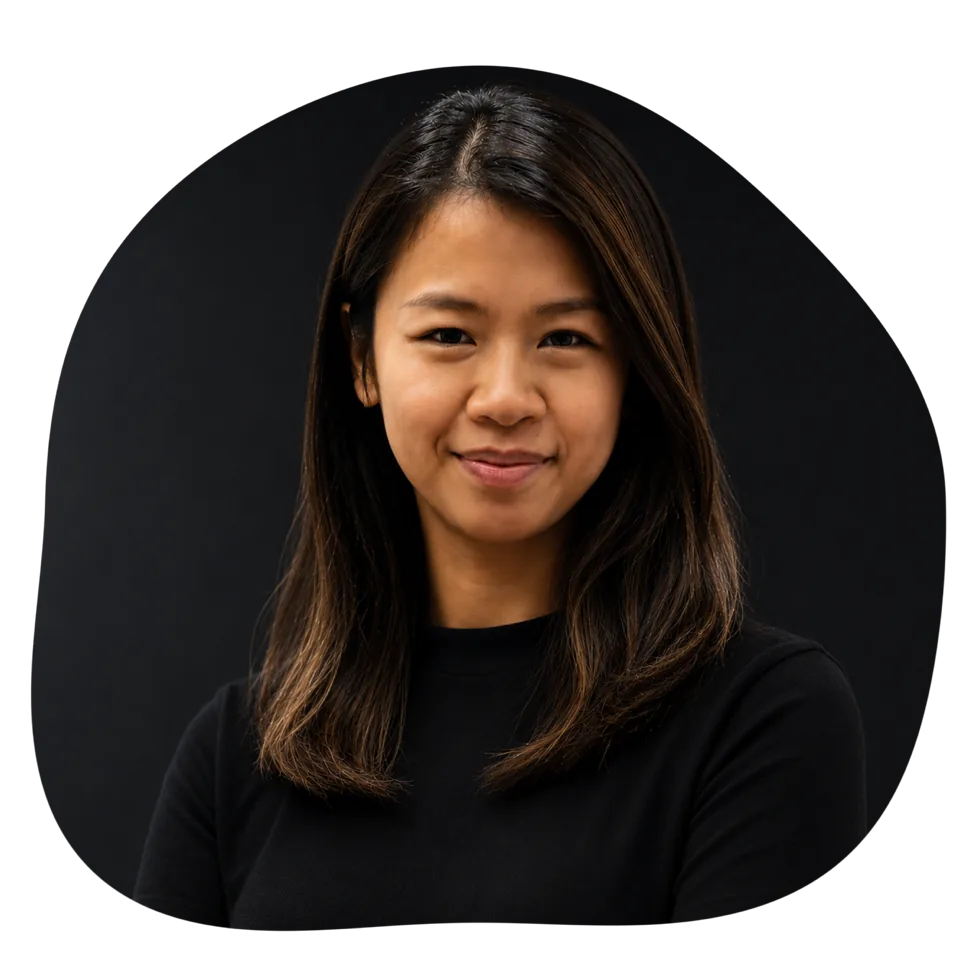
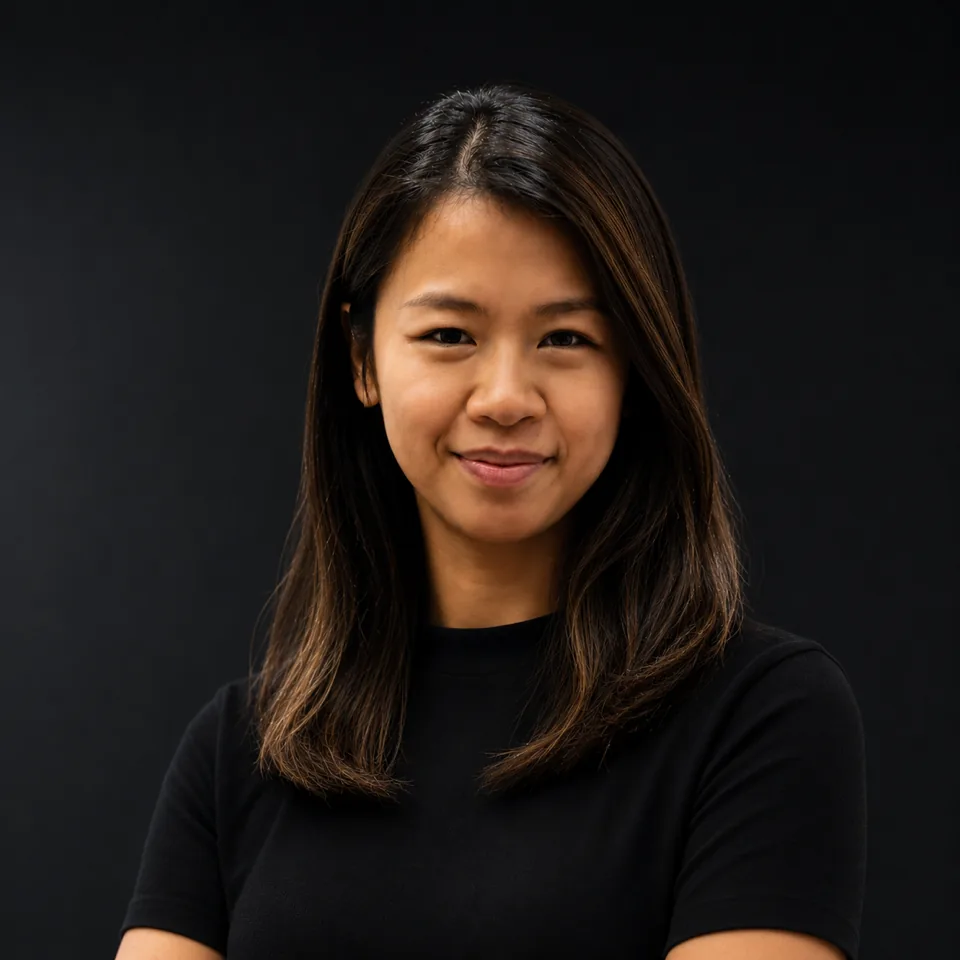
feat(about): let the photograph's edge breathe with its backing
The capsule had been baked into the file's alpha channel, so the photo
sat still while the cobalt shape moved behind it. A clip can only take
pixels away, so to let the edge move outward the photo is now served as
a plain rectangle, 33 KB with no alpha, and the shape is applied as an
SVG clipPath animated with the same values and timing as the backing.
The two breathe as one printed sticker rather than as two layers.

The clip uses objectBoundingBox units with a scale transform on the
path, so the same pixel-space coordinates fit the <img>'s box at any
rendered size; each instance gets its own clip id. One outline now does
both jobs, and it lives in one place: a new photo of the same proportions
needs no alpha work and no retrace, only a new file.

Measured: the clip's box grows from 914 to 917 px over a half cycle, in
step with the backing.

Claude-Session: https://claude.ai/code/session_01Du7EdmFHRgKvkLvtih5ctu

Changed region(s): [[0.0, 0.0, 1.0, 1.0]]

diff --git a/src/content/portrait.silhouette.ts b/src/content/portrait.silhouette.ts
@@ -1,16 +1,16 @@
-// The portrait's own outline, traced from the PNG's alpha channel every
-// eight rows in the image's coordinate space, so the backing behind it
-// scales with the image and matches it at any size. `rest` is the trace;
-// `morph` is the same points pushed a few pixels along their outward
-// normals by a slow wave, so the backing breathes rather than becoming a
-// different shape.
-//
-// The PNG is a square studio photograph cut to an organic capsule: an
-// ellipse that nearly fills the frame, sitting a little low so the head
-// has air, with two slow wobbles so it reads as cut by hand. The capsule
-// is baked into the alpha channel rather than clipped in CSS, so the
-// component shows the file exactly as exported, the same contract the
-// previous portrait had. Regenerate both if the image changes.
+// The portrait's outline, and the only place its shape is defined. The
+// photograph is served as a plain rectangle; this path is applied to it as
+// an animated clip and drawn behind it as the cobalt backing, so the photo
+// and its shadow breathe as one shape. `rest` is the shape: an organic
+// capsule that sits entirely inside the frame so no edge of it is ever the
+// frame's straight edge, an ellipse above for the head and a squarer curve
+// below that stays wide through the shoulders and only rounds off near the
+// bottom, with two slow wobbles so it reads as cut by hand. `morph` is the
+// same points pushed a few pixels along their outward normals by a slow
+// three-lobed wave. Both are polylines in the image's own pixel space,
+// 960 square, and must keep identical point counts or the browser will not
+// interpolate between them. A new photo of the same proportions needs no
+// change here at all.
 export const portraitSilhouette = {
   rest: "M504 66 L548 72 573 78 592 84 608 90 622 96 635 102 647 108 657 114 667 120 677 126 686 132 694 138 703 144 711 150 718 156 726 162 733 168 740 174 747 180 754 186 760 192 767 198 773 204 779 210 785 216 792 222 798 228 804 234 809 240 815 246 821 252 826 258 832 264 837 270 843 276 848 282 853 288 858 294 863 300 868 306 872 312 877 318 881 324 885 330 889 336 893 342 897 348 901 354 904 360 908 366 911 372 914 378 917 384 920 390 922 396 925 402 927 408 929 414 931 420 933 426 935 432 936 438 938 444 939 450 940 456 941 462 942 468 943 474 944 480 944 486 945 492 945 498 945 504 945 510 945 516 945 522 945 528 945 534 945 540 945 546 945 552 944 558 944 564 944 570 943 576 943 582 943 588 942 594 942 600 941 606 940 612 940 618 939 624 938 630 938 636 937 642 936 648 935 654 934 660 933 666 932 672 931 678 930 684 928 690 927 696 926 702 924 708 923 714 921 720 920 726 918 732 916 738 914 744 912 750 910 756 908 762 905 768 903 774 900 780 897 786 894 792 891 798 887 804 884 810 880 816 875 822 871 828 866 834 861 840 856 846 850 852 843 858 836 864 829 870 820 876 811 882 800 888 788 894 774 900 758 906 737 912 709 918 653 924 308 930 262 930 205 924 179 918 160 912 146 906 133 900 123 894 114 888 105 882 98 876 92 870 86 864 81 858 76 852 71 846 67 840 63 834 60 828 57 822 54 816 51 810 49 804 47 798 45 792 43 786 41 780 40 774 38 768 37 762 36 756 35 750 34 744 33 738 33 732 32 726 32 720 32 714 31 708 31 702 31 696 31 690 31 684 31 678 32 672 32 666 32 660 33 654 33 648 33 642 34 636 34 630 35 624 36 618 36 612 37 606 37 600 38 594 39 588 39 582 40 576 40 570 41 564 41 558 42 552 43 546 43 540 43 534 44 528 44 522 45 516 45 510 45 504 45 498 45 492 46 486 46 480 46 474 47 468 47 462 48 456 48 450 49 444 49 438 50 432 51 426 52 420 53 414 53 408 54 402 56 396 57 390 58 384 59 378 61 372 63 366 64 360 66 354 68 348 70 342 72 336 74 330 76 324 79 318 81 312 84 306 87 300 90 294 93 288 96 282 100 276 103 270 107 264 111 258 115 252 119 246 124 240 129 234 134 228 139 222 144 216 150 210 155 204 162 198 168 192 175 186 182 180 189 174 196 168 204 162 213 156 222 150 231 144 240 138 250 132 261 126 272 120 284 114 297 108 310 102 325 96 341 90 360 84 381 78 408 72 455 66 Z",
   morph:

diff --git a/src/lib/components/Portrait.svelte b/src/lib/components/Portrait.svelte
@@ -3,17 +3,18 @@
   import { base } from "$app/paths";
 
   /**
-   * The portrait: a transparent PNG cut to an organic capsule, shown
-   * exactly as exported, with a flat cobalt capsule behind it offset to the
-   * bottom right.
+   * The portrait: a photograph clipped to an organic capsule, with a flat
+   * cobalt capsule behind it offset to the bottom right, like a printed
+   * sticker whose colour plate is a touch out of register.
    *
-   * The backing is the image's own silhouette: an SVG path traced from the
-   * PNG's alpha channel every 8 rows, in the image's coordinate space, so
-   * it scales with the image and matches it to within a pixel or two at
-   * any size the page shows. The path morphs into a shifted version of
-   * itself and back: the same points pushed along their outward normals by
-   * a slow wave, so it reads as the shape breathing rather than becoming a
-   * different shape. It moves whenever the portrait is visible and pauses
+   * One outline does both jobs. As a clipPath it cuts the photograph; as a
+   * filled path it is the backing. The same path morphs into a shifted
+   * version of itself and back, the points pushed along their outward
+   * normals by a slow wave, and both the clip and the backing follow it in
+   * step, so the whole sticker breathes rather than the photo sitting
+   * still while a shape moves behind it. The photograph is served as a
+   * plain rectangle; the shape lives in the path, not in the file, so a
+   * new photo needs no alpha work. It moves whenever the portrait is visible and pauses
    * when it leaves the viewport. SMIL rather than a CSS transition on `d`,
    * because Safari does not animate `d` from CSS. Under reduced motion the
    * animation is not rendered at all.
@@ -33,6 +34,9 @@
       rather than living here; see src/content/portrait.silhouette.ts. */
   export let rest: string;
   export let morph: string;
+
+  // One id per instance, so two portraits on a page would not share a clip.
+  const clipId = `portrait-clip-${Math.random().toString(36).slice(2, 8)}`;
 
   let animate = true;
   let portrait: HTMLElement;
@@ -67,6 +71,35 @@
     aria-hidden="true"
     focusable="false"
   >
+    <defs>
+      <!-- The same outline, as a clip for the photograph. objectBoundingBox
+           units so it fits the <img>'s own box at any rendered size; the
+           scale brings the path's pixel coordinates into 0..1. Same values
+           and timing as the backing below, so the two breathe as one
+           printed sticker rather than as two layers sliding. -->
+      <clipPath
+        id={clipId}
+        clipPathUnits="objectBoundingBox"
+      >
+        <path
+          d={rest}
+          transform="scale({1 / width} {1 / height})"
+        >
+          {#if animate}
+            <animate
+              attributeName="d"
+              begin="0s"
+              dur="6s"
+              repeatCount="indefinite"
+              calcMode="spline"
+              keyTimes="0; 0.5; 1"
+              keySplines="0.45 0 0.55 1; 0.45 0 0.55 1"
+              values={`${rest}; ${morph}; ${rest}`}
+            />
+          {/if}
+        </path>
+      </clipPath>
+    </defs>
     <path d={rest}>
       {#if animate}
         <animate
@@ -90,6 +123,7 @@
     loading="lazy"
     decoding="async"
     draggable="false"
+    style:clip-path="url(#{clipId})"
   />
 </figure>
 

diff --git a/src/content/aboutMe.config.ts b/src/content/aboutMe.config.ts
@@ -91,10 +91,12 @@ export const aboutMeConfig = {
   // A transparent PNG cut to an organic capsule, shown exactly as exported,
   // with a flat cobalt capsule behind it. See Portrait.svelte.
   // Served at the size the page shows it (at most 460 CSS px, so 960 for
-  // a 2x screen) as a WebP with alpha, 2.4 MB down to a few dozen KB. The
-  // filename names the person, the alt names her again in words, and the
-  // width and height reserve the box: what an image on a personal site
-  // needs for a search engine to attach it to the right name.
+  // a 2x screen) as a plain rectangular WebP, 33 KB against the 1.5 MB
+  // before; the capsule shape is a clip path, not the file, so the photo
+  // carries no alpha and needs no cutting out. The filename names the
+  // person, the alt names her again in words, and the width and height
+  // reserve the box: what an image on a personal site needs for a search
+  // engine to attach it to the right name.
   portrait: {
     src: "assets/echo-shih-portrait.webp",
     alt: "Echo Shih, a studio portrait against a dark background.",
